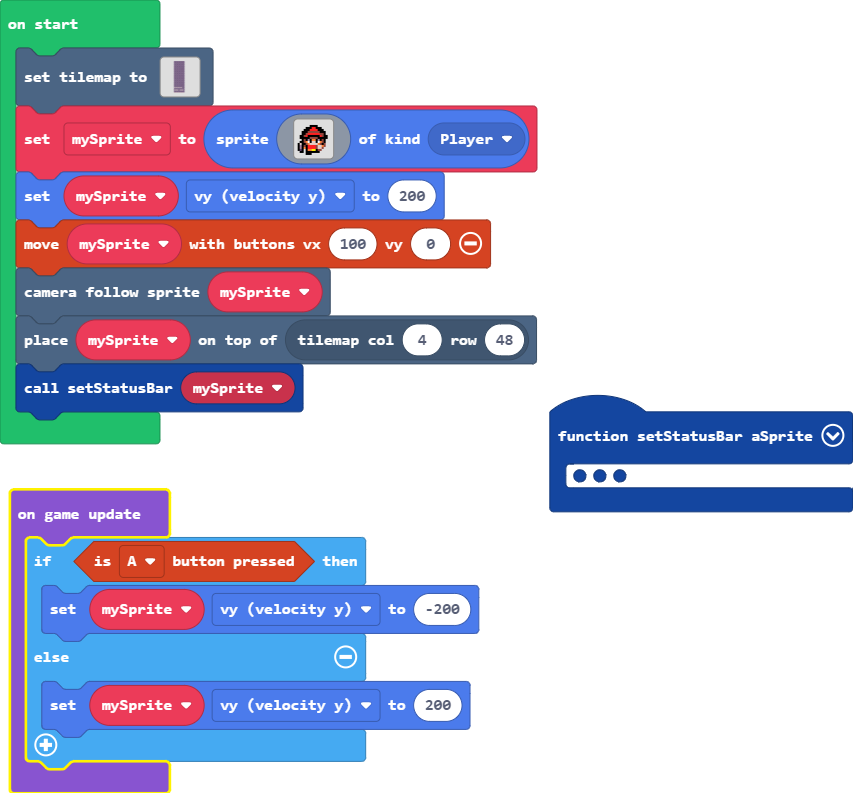
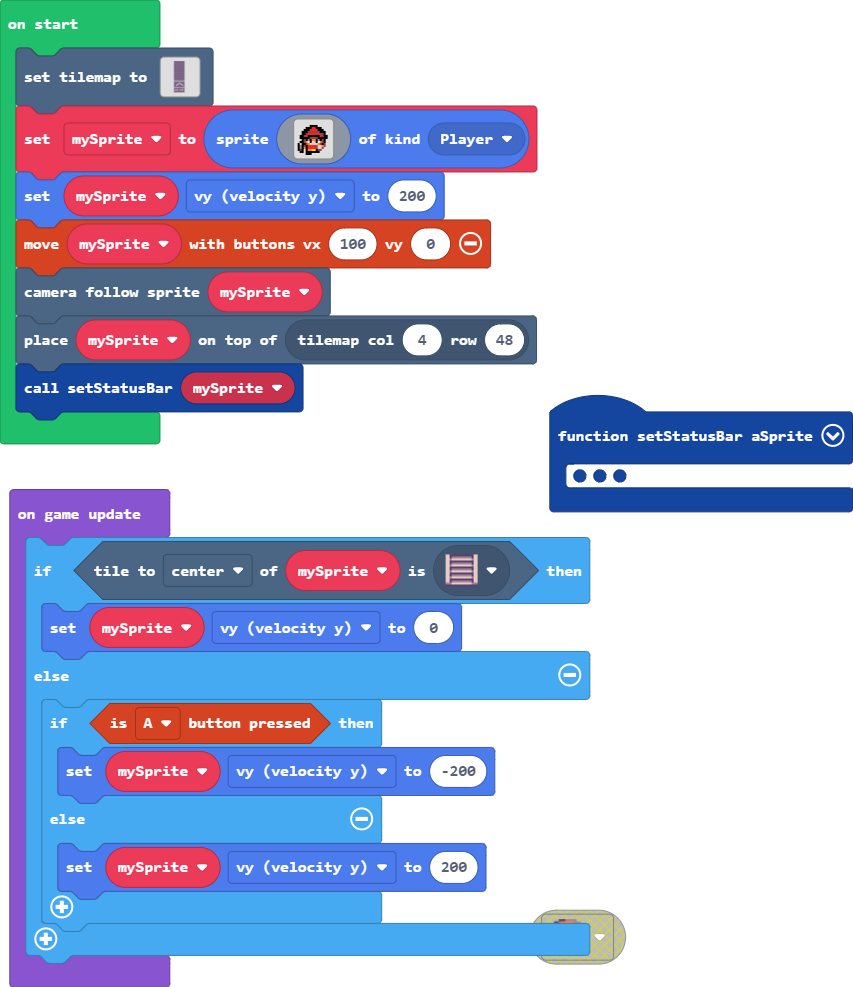
Update main.blocks, main.ts, tilemap.g.jres, tilemap.g.ts

diff --git a/tilemap.g.ts b/tilemap.g.ts
@@ -6,7 +6,7 @@ namespace myTiles {
     helpers._registerFactory("tilemap", function(name: string) {
         switch(helpers.stringTrim(name)) {
             case "level1":
-            case "level1":return tiles.createTilemap(hex`100032000101010101010101010101010101010101010101010101010101010101010101010101010101010101010101010101010101010101010101010101010101010101010101010101010101010101010101010101010101010101010101010101010101010101010101010101010101010101010101010101010101010101010101010101010101010101010101010101010101010101010101010101010101010101010101010101010101010101010101010101010101010101010101010101010101010101010101010101010101010101010101010101010101010101010101010101010101010101010101010101010101010101010101010101010101010101010101010101010101010101010101010101010101010101010101010101010101010101010101010101010101010101010101010101010101010101010101010101010101010101010101010101010101010101010101010101010101010101010101010101010101010101010101010101010101010101010101010101010101010101010101010101010101010101010101010101010101010101010101010101010101010101010101010101010101010101010101010101010101010101010101010101010101010101010101010101010101010101010101010101010101010101010101010101010101010101010101010101010101010101010101010101010101010101010101010101010101010101010101010101010101010101010101010101010101010101010101010101010101010101010101010101010101010101010101010101010101010101010101010101010101010101010101010101010101010101010101010101010101010101010101010101010101010101010101010101010101010101010101020202020202020202020202020101010101010101010101010101010101010101010101010101010101010101010101010101010101010101010101010101010102020202020201010202020202020101010101010101010101010101010101010101010101010101010101010101010101010101010101010101010101010102020202020202020202020202020202`, img`
+            case "level1":return tiles.createTilemap(hex`100032000101010101010101010101010101010101010101010101010101010101010101010101010101010101010101010101010101010101010101010101010101010101010101010101010101010101010101010101010101010101010101010101010101010101010101010101010101010101010101010101010101010101010101010101010101010101010101010101010101010101010101010101010101010101010101010101010101010101010101010101010101010101010101010101010101010101010101010101010101010101010101010101010101010101010101010101010101010101010101010101010101010101010101010101010101010101010101010101010101010101010101010101010101010101010101010101010101010101010101010101010101010101010101010101010101010101010101010101010101010101010101010101010101010101010101010101010101010101010101010101010101010101010101010101010101010101010101010101010101010101010101010101010101010101010101010101010101010101010101010101010101010101010101010101010101010101010101010101010101010101010101010101010101010101010101010101010101010101010101010101010101010101010101010101010101010102020202020202020302020202020202010101010101010103010101010101010101010101010101030101010101010101010101010101010301010101010101010101010101020202020202010101010101010101020201010101020201010101010101020201010101010102020101010101020201010101010101010202010101010101010101010101010101010101010101010101010101010101010101020202020202020202020202020302020101010101010101010101010103010101010101010101010101010101030101010101010101010101010101010301010102020202020201010202020202020101010101010101010101010101010101010101010101010101010101010101010101010101010101010101010101010102020202020202020202020202020202`, img`
 ................
 ................
 ................
@@ -38,17 +38,17 @@ namespace myTiles {
 ................
 ................
 ................
+22222222.2222222
 ................
 ................
 ................
+......222222....
+.....22....22...
+....22......22..
+...22........22.
 ................
 ................
-................
-................
-................
-................
-................
-2222222222222...
+2222222222222.22
 ................
 ................
 ................
@@ -57,7 +57,7 @@ namespace myTiles {
 ................
 ................
 2222222222222222
-`, [myTiles.transparency16,sprites.dungeon.darkGroundCenter,sprites.dungeon.floorLight0], TileScale.Sixteen);
+`, [myTiles.transparency16,sprites.dungeon.darkGroundCenter,sprites.dungeon.floorLight0,sprites.dungeon.stairNorth], TileScale.Sixteen);
         }
         return null;
     })

diff --git a/main.ts b/main.ts
@@ -29,9 +29,13 @@ scene.cameraFollowSprite(mySprite)
 tiles.placeOnTile(mySprite, tiles.getTileLocation(4, 48))
 setStatusBar(mySprite)
 game.onUpdate(function () {
-    if (controller.A.isPressed()) {
-        mySprite.vy = -200
+    if (mySprite.tileKindAt(TileDirection.Center, sprites.dungeon.stairNorth)) {
+        mySprite.vy = 0
     } else {
-        mySprite.vy = 200
+        if (controller.A.isPressed()) {
+            mySprite.vy = -200
+        } else {
+            mySprite.vy = 200
+        }
     }
 })
